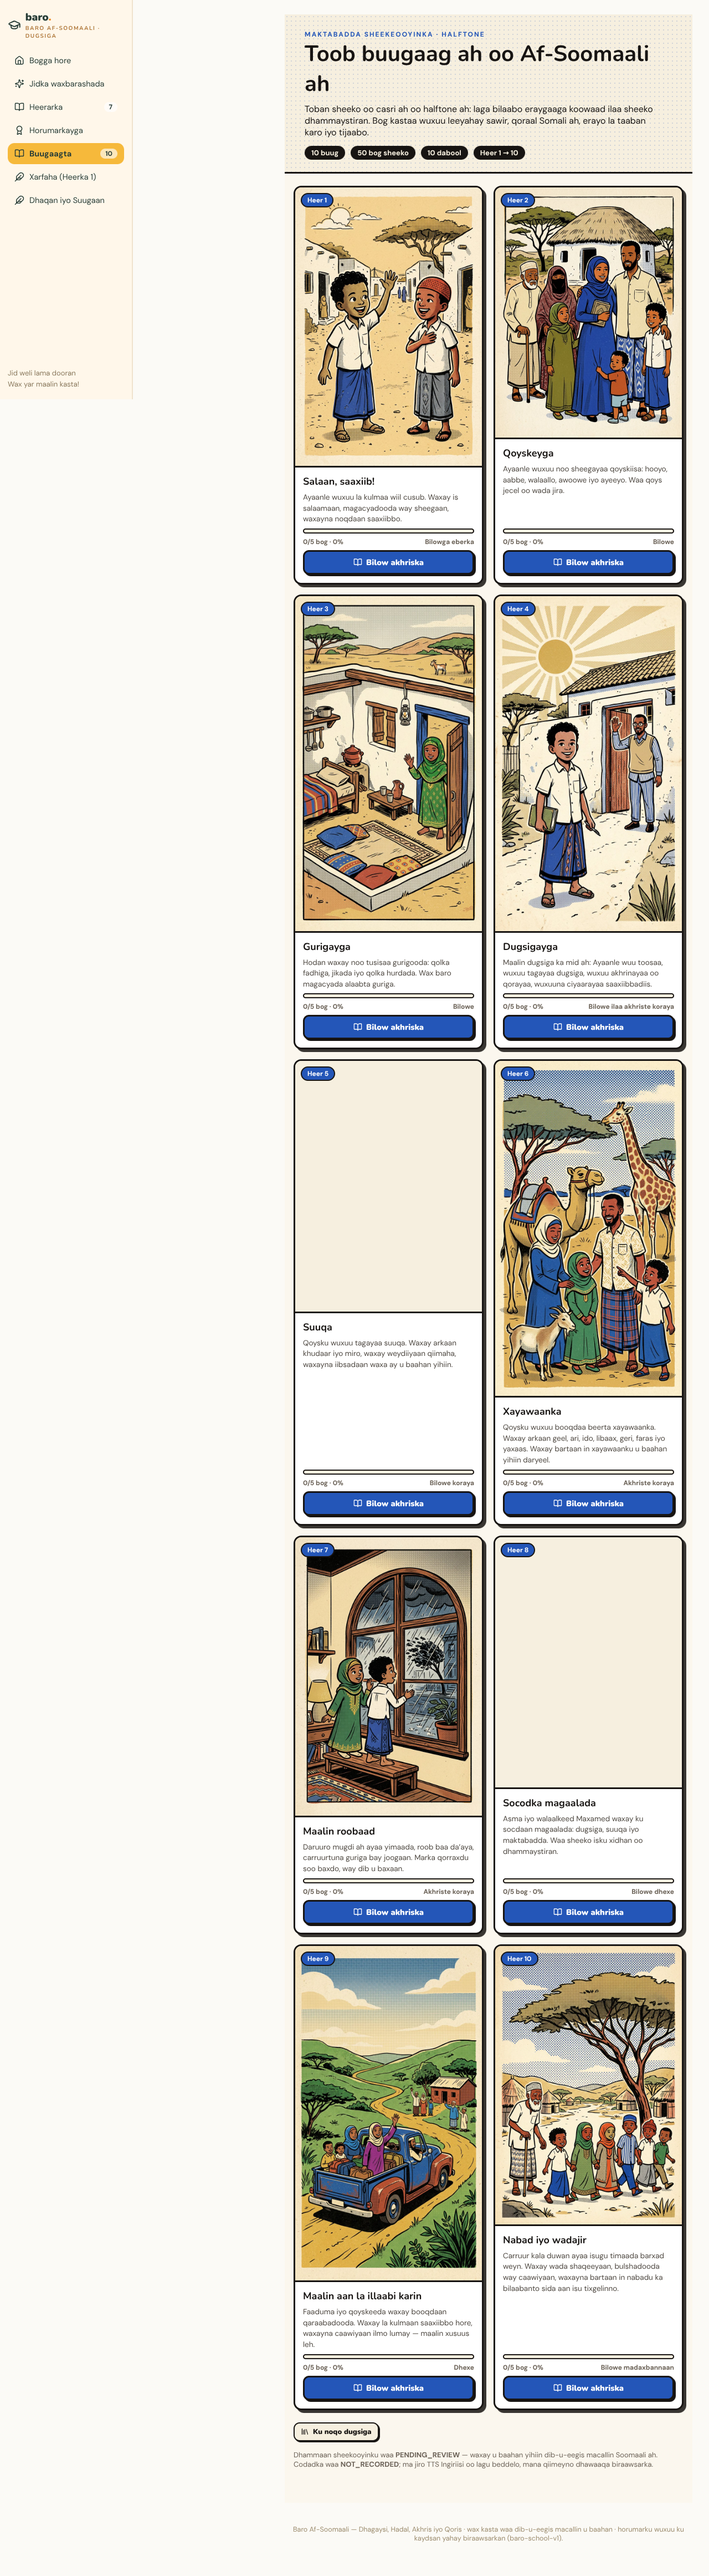
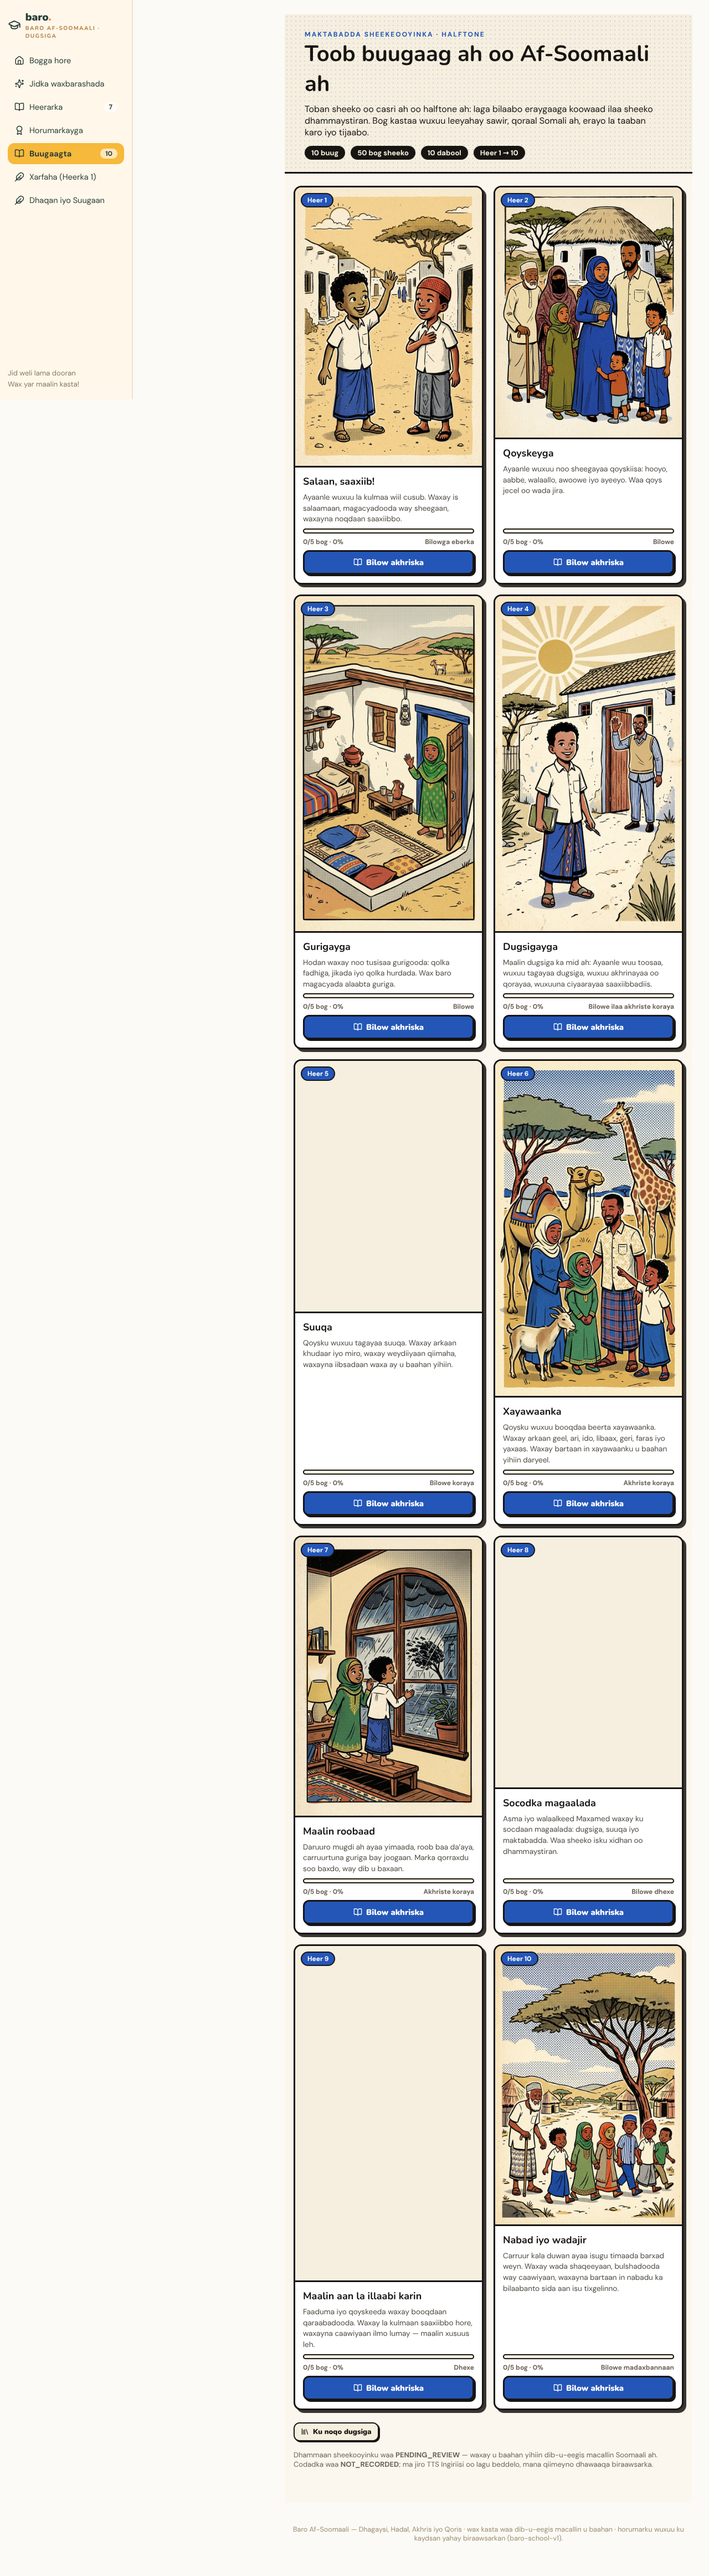
Book library: compact coverflow carousel replaces the tall card grid
- Center-focused cover (amber ring, full size) with scaled, dimmed neighbours
  on both sides — the transparency + dimensioning effect from the reference
- Arrows, swipe (pointer drag), keyboard arrows, and clicking a side cover
  focuses it; wrap-around over all 10 books
- One shared detail panel (count, title, level, description, 5-page count,
  read link) replaces ten stacked cards — the section is a fraction of its
  old height
- All 10 covers stay in the DOM and load (e2e asserts this); arrows move the
  detail; the focused book opens the reader in one click
- Reduced-motion honoured; no horizontal overflow at 390/1280

Changed region(s): [[0.4062, 0.7492, 0.6875, 0.9053]]

diff --git a/src/parents/parents.css b/src/parents/parents.css
@@ -132,19 +132,33 @@ html { scroll-behavior: smooth; }
 .ph-path-item h3 { font-size: 16.5px; margin: 2px 0 6px; }
 .ph-soon { display: inline-block; margin-top: 8px; background: #f3efe3; color: var(--muted); border-radius: 999px; padding: 4px 11px; font-size: 11.5px; font-weight: 800; }
 
-/* ── books ───────────────────────────────────────────────────────── */
+/* ── books carousel ───────────────────────────────────────────────── */
 .ph-books-section { background: var(--navy); }
-.ph-book-grid { display: grid; grid-template-columns: repeat(auto-fill, minmax(min(215px, 100%), 1fr)); gap: 18px; margin-bottom: 32px; }
-.ph-book { background: var(--white); border-radius: 18px; overflow: hidden; display: flex; flex-direction: column; border: 2px solid rgba(255, 255, 255, 0.14); transition: transform .2s ease, box-shadow .2s ease; }
-.ph-book:hover { transform: translateY(-6px); box-shadow: 0 22px 40px rgba(0, 0, 0, 0.35); }
-.ph-book img { display: block; width: 100%; aspect-ratio: 3 / 4; object-fit: cover; transition: transform .35s ease; }
-.ph-book:hover img { transform: scale(1.045); }
-.ph-book-body { padding: 15px 16px 17px; display: flex; flex-direction: column; flex: 1; }
-.ph-book h3 { font-size: 17px; margin: 0 0 6px; }
-.ph-book-level { align-self: flex-start; background: var(--tint); color: var(--blue); border-radius: 999px; padding: 3px 11px; font-size: 11px; font-weight: 800; margin: 0 0 8px; }
-.ph-book-desc { font-size: 13px; line-height: 1.5; color: var(--muted); margin: 0 0 10px; display: -webkit-box; -webkit-line-clamp: 2; -webkit-box-orient: vertical; overflow: hidden; }
-.ph-book-meta { font-size: 12px; font-weight: 800; color: var(--navy); margin: 0 0 12px; }
-.ph-book .ph-link { margin-top: auto; }
+.ph-carousel { position: relative; max-width: 980px; margin: 0 auto 26px; outline: none; }
+.ph-car-stage { position: relative; height: clamp(275px, 36vw, 330px); overflow: hidden; touch-action: pan-y; cursor: grab; }
+.ph-car-stage:active { cursor: grabbing; }
+.ph-car-item { position: absolute; left: 50%; top: 10px; width: clamp(152px, 19vw, 205px); padding: 0 0 7px; border: 2.5px solid rgba(255, 255, 255, 0.22); border-radius: 16px; overflow: hidden; background: var(--white); cursor: pointer; transition: transform .45s cubic-bezier(.2, .7, .2, 1), opacity .45s ease; }
+.ph-car-item img { display: block; width: 100%; aspect-ratio: 3 / 4; object-fit: cover; pointer-events: none; }
+.ph-car-item span { display: block; font-family: 'Nunito', sans-serif; font-weight: 800; font-size: 11.5px; color: var(--navy); padding: 5px 8px 0; white-space: nowrap; overflow: hidden; text-overflow: ellipsis; }
+.ph-pos0 { transform: translateX(-50%) scale(1); z-index: 5; opacity: 1; border-color: var(--amber); box-shadow: 0 18px 42px rgba(0, 0, 0, 0.45); }
+.ph-posn1, .ph-pos1 { z-index: 4; opacity: 0.8; }
+.ph-posn1 { transform: translateX(calc(-50% - 64%)) scale(0.84); }
+.ph-pos1 { transform: translateX(calc(-50% + 64%)) scale(0.84); }
+.ph-posn2, .ph-pos2 { z-index: 3; opacity: 0.55; }
+.ph-posn2 { transform: translateX(calc(-50% - 118%)) scale(0.7); }
+.ph-pos2 { transform: translateX(calc(-50% + 118%)) scale(0.7); }
+.ph-car-item.far { opacity: 0; visibility: hidden; pointer-events: none; }
+.ph-car-arrow { position: absolute; top: clamp(108px, 15vw, 145px); z-index: 10; width: 46px; height: 46px; border-radius: 999px; border: 2px solid rgba(255, 255, 255, 0.4); background: rgba(255, 255, 255, 0.14); color: #fff; display: inline-flex; align-items: center; justify-content: center; cursor: pointer; transition: background .15s ease; }
+.ph-car-arrow:hover { background: rgba(255, 255, 255, 0.3); }
+.ph-car-arrow.left { left: 0; }
+.ph-car-arrow.right { right: 0; }
+.ph-car-detail { text-align: center; max-width: 640px; margin: 14px auto 0; }
+.ph-car-count { font-size: 12px; font-weight: 800; letter-spacing: 2px; color: var(--amber); margin: 0 0 6px; }
+.ph-car-detail h3 { color: var(--cream); font-size: 23px; margin: 0 0 8px; }
+.ph-car-detail .ph-book-level { display: inline-block; background: var(--tint); color: var(--blue); border-radius: 999px; padding: 3px 12px; font-size: 11px; font-weight: 800; margin: 0 0 8px; }
+.ph-car-detail .ph-book-desc { font-size: 14px; line-height: 1.55; color: rgba(255, 255, 255, 0.75); margin: 0 auto 8px; max-width: 560px; display: -webkit-box; -webkit-line-clamp: 2; -webkit-box-orient: vertical; overflow: hidden; }
+.ph-car-detail .ph-book-meta { font-size: 12.5px; font-weight: 800; color: var(--cream); margin: 0 0 10px; }
+.ph-car-detail .ph-link { color: var(--amber); font-size: 15px; }
 
 /* ── culture ─────────────────────────────────────────────────────── */
 .ph-culture { display: grid; grid-template-columns: 0.85fr 1.15fr; gap: clamp(20px, 3vw, 40px); align-items: center; background: var(--white); border: 2px solid var(--line); border-radius: 24px; padding: clamp(20px, 3vw, 36px); box-shadow: 8px 10px 0 rgba(23, 32, 63, 0.1); }
@@ -234,5 +248,5 @@ html { scroll-behavior: smooth; }
 @media (prefers-reduced-motion: reduce) {
   .rv, .rv.in { opacity: 1; transform: none; transition: none; }
   .ph-chip { animation: none; }
-  .ph-book img, .ph-btn, .ph-skill, .ph-book { transition: none; }
+  .ph-car-item, .ph-btn, .ph-skill { transition: none; }
 }

diff --git a/src/parents/ParentsHome.tsx b/src/parents/ParentsHome.tsx
@@ -1,6 +1,6 @@
-import { useEffect, useState } from 'react';
+import { useEffect, useRef, useState } from 'react';
 import {
-  ArrowRight, BookOpen, Check, ChevronDown, CreditCard, Feather, GraduationCap,
+  ArrowRight, BookOpen, Check, ChevronDown, ChevronLeft, ChevronRight, CreditCard, Feather, GraduationCap,
   Headphones, Map, Menu, Mic, PenLine, Smartphone,
   Star, TrendingUp, UserPlus, X,
 } from 'lucide-react';
@@ -162,20 +162,7 @@ export function ParentsHome() {
         <p className="ph-eyebrow center light rv">MAKTABADDA SHEEKOYINKA</p>
         <h2 className="light rv">Sheekooyin Qurux Badan. Akhris Farxad Leh.</h2>
         <p className="ph-sub center light rv">Ku baro Af-Soomaaliga sheekooyin xiiso leh, sawirro qurux badan iyo erayo cusub.</p>
-        <div className="ph-book-grid">
-          {libraryBooks.map(b => (
-            <article key={b.id} className="ph-book rv">
-              <img src={b.cover} alt={b.coverAltSo} loading="lazy" decoding="async" />
-              <div className="ph-book-body">
-                <h3>{b.titleSo}</h3>
-                <p className="ph-book-level">{b.levelLabelSo}</p>
-                <p className="ph-book-desc">{b.descriptionSo}</p>
-                <p className="ph-book-meta">{b.pages.length} bog oo sheeko ah</p>
-                <a className="ph-link" href={`#/book/${b.id}`}>Akhri buugga <ArrowRight size={15} /></a>
-              </div>
-            </article>
-          ))}
-        </div>
+        <BookCarousel />
         <div className="center rv">
           <a className="ph-btn amber lg" href="#/books">Eeg Dhammaan Buugaagta <ArrowRight size={18} /></a>
         </div>
@@ -324,6 +311,72 @@ export function ParentsHome() {
       </footer>
 
       {intent && <IntentDialog intent={intent} onClose={() => setIntent(null)} />}
+    </div>
+  );
+}
+
+/* ── book carousel (coverflow) ──────────────────────────────────────── */
+
+function BookCarousel() {
+  const n = libraryBooks.length;
+  const [index, setIndex] = useState(0);
+  const drag = useRef<number | null>(null);
+  const go = (d: number) => setIndex(i => (i + d + n) % n);
+  const focus = libraryBooks[index];
+  return (
+    <div
+      className="ph-carousel rv"
+      role="group"
+      aria-roledescription="carousel"
+      aria-label="Sheekooyinka maktabadda"
+      tabIndex={0}
+      onKeyDown={e => {
+        if (e.key === 'ArrowLeft') { e.preventDefault(); go(-1); }
+        if (e.key === 'ArrowRight') { e.preventDefault(); go(1); }
+      }}
+    >
+      <button className="ph-car-arrow left" aria-label="Buuggii hore" onClick={() => go(-1)}><ChevronLeft size={22} /></button>
+      <div
+        className="ph-car-stage"
+        onPointerDown={e => { drag.current = e.clientX; }}
+        onPointerUp={e => {
+          if (drag.current === null) return;
+          const dx = e.clientX - drag.current;
+          drag.current = null;
+          if (dx > 45) go(-1);
+          else if (dx < -45) go(1);
+        }}
+      >
+        {libraryBooks.map((b, i) => {
+          let d = i - index;
+          if (d > n / 2) d -= n;
+          if (d < -n / 2) d += n;
+          const far = Math.abs(d) > 2;
+          const slot = Math.max(-2, Math.min(2, d));
+          return (
+            <button
+              key={b.id}
+              className={`ph-car-item ph-pos${slot < 0 ? 'n' : ''}${Math.abs(slot)}${far ? ' far' : ''}`}
+              aria-hidden={d !== 0}
+              tabIndex={d === 0 ? 0 : -1}
+              aria-label={`Fokus ${b.titleSo}`}
+              onClick={() => setIndex(i)}
+            >
+              <img src={b.cover} alt="" decoding="async" />
+              <span>{b.titleSo}</span>
+            </button>
+          );
+        })}
+      </div>
+      <button className="ph-car-arrow right" aria-label="Buugga xiga" onClick={() => go(1)}><ChevronRight size={22} /></button>
+      <div className="ph-car-detail" aria-live="polite">
+        <p className="ph-car-count">{index + 1} / {n}</p>
+        <h3>{focus.titleSo}</h3>
+        <p className="ph-book-level">{focus.levelLabelSo}</p>
+        <p className="ph-book-desc">{focus.descriptionSo}</p>
+        <p className="ph-book-meta">{focus.pages.length} bog oo sheeko ah</p>
+        <a className="ph-link" href={`#/book/${focus.id}`}>Akhri buugga <ArrowRight size={15} /></a>
+      </div>
     </div>
   );
 }

diff --git a/e2e/parents.spec.ts b/e2e/parents.spec.ts
@@ -39,11 +39,18 @@ test('all navigation links are functional', async ({ page }) => {
   await expect(page).toHaveURL(/#\/stage\//);
 });
 
-test('book cards link straight into the reader and all covers load', async ({ page }) => {
-  await expect(page.locator('.ph-book')).toHaveCount(10);
-  const broken = await page.locator('.ph-book img').evaluateAll(imgs => imgs.filter(i => (i as HTMLImageElement).naturalWidth === 0).length);
+test('book carousel shows every cover, navigates, and links into the reader', async ({ page }) => {
+  await expect(page.locator('.ph-car-item')).toHaveCount(10);
+  const broken = await page.locator('.ph-car-item img').evaluateAll(imgs => imgs.filter(i => (i as HTMLImageElement).naturalWidth === 0).length);
   expect(broken, 'every book cover must load').toBe(0);
-  await page.getByRole('link', { name: /Akhri buugga/ }).first().click();
+  // arrows move the focused book and the detail panel follows
+  const first = await page.locator('.ph-car-detail h3').textContent();
+  await page.getByRole('button', { name: 'Buugga xiga' }).click();
+  await expect(page.locator('.ph-car-detail h3')).not.toHaveText(first ?? '');
+  await page.getByRole('button', { name: 'Buuggii hore' }).click();
+  await expect(page.locator('.ph-car-detail h3')).toHaveText(first ?? '');
+  // the focused book opens the reader in one click
+  await page.getByRole('link', { name: /Akhri buugga/ }).click();
   await expect(page.getByText('Bogga 1 / 5').first()).toBeVisible();
 });
 
